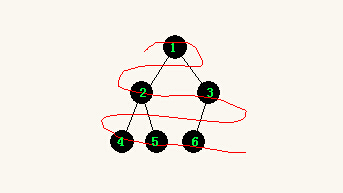
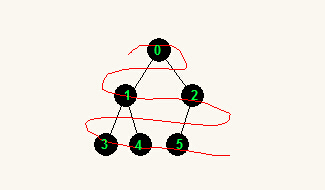
fix heap array index starts from 0 instead of 1

Changed region(s): [[0.2462, 0.1842, 0.7385, 0.8421]]

diff --git a/_posts/算法/2017-01-30-complete-binary-tree.md b/_posts/算法/2017-01-30-complete-binary-tree.md
@@ -55,9 +55,10 @@ pid: 20170130-125104
 把完全二叉树从根结点从左到右，依次编号
 ![complete-binary-tree-num][complete-binary-tree-num]
 
-1. 只要按照编号，存储到一维数组里，就可以通过一维数组的顺序还原一颗完全二叉树。
-2. 若结点的编号为k，则该结点的左儿子是2*k，右儿子是2*k+1（跳跃式访问规律）。
-3. 反过来，如果儿子的编号是x，则父结点的编号是(int)x/2（证明：(int)2*k/2 == (int)(2*k+1)/2 == k）。
+1. 只要按照编号，存储到一维数组里，就可以通过一维数组的顺序还原一颗完全二叉树（上面的一维数组是：`012345`）。
+2. 若结点的编号为k（k>=0），则该结点的左儿子是`2*k+1`，右儿子是左儿子加1，即`2*k+2`（跳跃式访问规律）。
+3. 反过来，如果儿子的编号是x，则父结点的编号是`(int)(x-1)/2`（证明：`(int)(2*k+1-1)/2 == (int)(2*k+2-1)/2 == k`）。
+
 
 堆就是利用这些特性。
 
